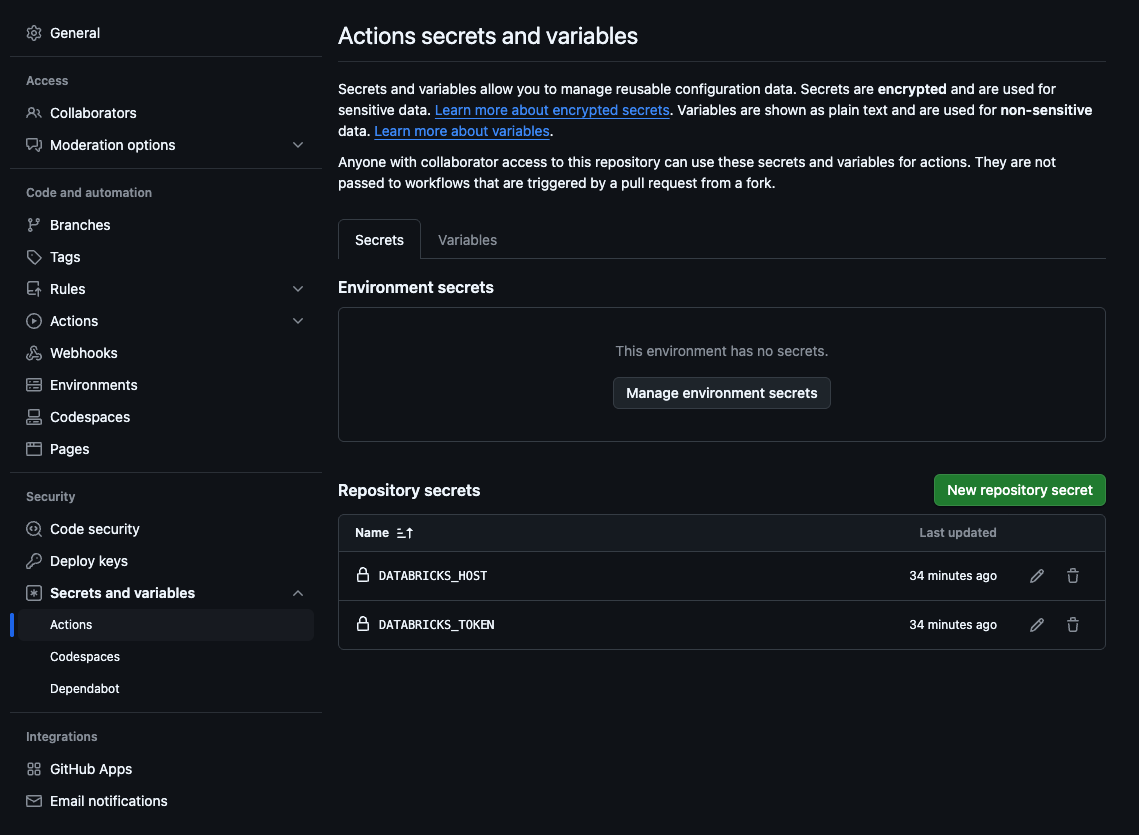
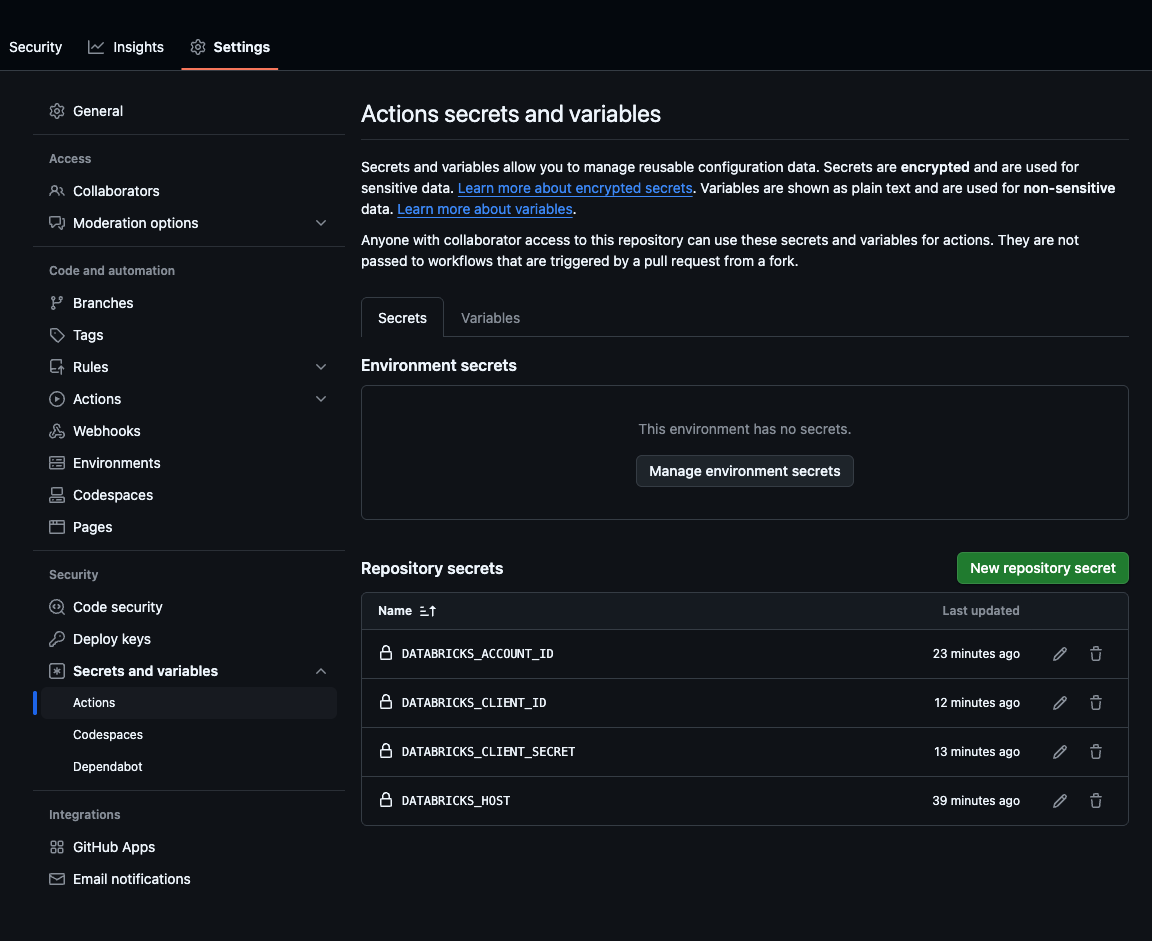
Trying to deploy
Updated instructions with Service Principal OAuth

One additional step

Updated image

diff --git a/README.md b/README.md
@@ -34,7 +34,9 @@ Once you've created a new repo in GitHub containing the contents of this repo, g
 
 ![](.img/access-action.png)
 
-### Fetching a databricks token for deployment
+### Setting up a service principal to deploy the app
+
+To execute the action, we're going to set up a service principal, and then use it to deploy the application by authenticating through OAuth.
 
 1. In Databricks, visit the workspace to which you'd like to deploy your app.
 
@@ -42,43 +44,38 @@ Once you've created a new repo in GitHub containing the contents of this repo, g
 1. On the settings page, navigate to Identity and access in the right panel. 
 1. On the right panel, click to manage service principals. (If you already have a service principal, feel free to skip this step.)
 1. Click to add a service principal.
-1. Click "Add New"
+
+![](.img/add-service-principal.png)
+
+6. Click "Add New"
+
 1. Enter a name for your service principal and click "Add".
 1. Go back to managing service principals.
 1. Click on the link for the service principal you created.
 1. Click on the Secrets tab.
-1. Generate a new OAuth Secret by clicking the "Generate Secret" button.
-1. Copy the secret from the screen that appears. You won't be able to get to it once you close the dialog.
+1. Generate a new OAuth Secret by clicking the "Generate Secret" button. 
+1. Select the lifetime for your secrets, and click "Generate".  _**Do not close the dialog that appears until you complete the next couple of steps.**_
 
+![](.img/client-id-and-secret.png)
 
+13. Copy the secret from the dialog box that appears.
 
-1. Make sure "Link Git account" is selected, and click "Link"
-1. It'll redirect you to GitHub. Sign into GitHub or select your account.
-
-
-![](./.img/access-tokens.png)
-
-5. Generate a new token. Set the lifetime of the token to something that works for you. 
-
-![](.img/generate-token.png)
-
-6. Once your token has been generated, copy it. You won't see it again after you dismiss the dialog.
-
-![](.img/created-token.png)
-
-### Adding token to Github
-
-1. Back in your GitHub repo, navigate to the repo Settings
-
+1. In another browser window, open your GitHub repo and navigate to the repo settings.
 1. On the left panel, navigate to Secrets and variables, followed by Actions.
+1. Create a new repository secret. Name it DATABRICKS_CLIENT_SECRET, and for the value, paste the secret value from when you set up the OAuth secret in Databricks.
+1. In Databricks, copy the value for the Client ID from the dialog.
+1. In GitHub, create a new repository secret. Name it DATABRICKS_CLIENT_ID, and for the value, paste the client ID from the above step. You should be safe to close the dialog now.
+1. In Databricks Click your workspace name in the top right, and click on Manage Account.
+1. Once on the account console, click your initial on the top right of the page. You should see an Account ID in the menu that appears. Copy it.
+
+![](.img/getting-the-account-id.png) 
+
+21. In GitHub, create another repository secret. Name it DATABRICKS_ACCOUNT_ID, and paste the value you just copied.
+
+1. On your Databricks tab, copy the hostname (without any URL path) of your Databricks workspace. You should be able to get this from your browser's navigation bar.
+1. In GitHub, create a new repository secret. Name it DATABRICKS_HOST, and paste the hostname in as the value. Remember to exclude any part of the URL following the domain name. Your final secrets page should look like the image below. You should have four secrets in all.
 
 ![](.img/repo-secrets.png)
-
-3. Create a new repository secret. Name it DATABRICKS_CLIENT_SECRET, and for the value, paste the secret value from when you set up the OAuth secret in Databricks.
-1. In Databricks, copy the client ID from the the secrets tab of your service principal.
-1. Create a new repository secret. Name it DATABRICKS_CLIENT_ID, and for the value, paste the client ID from the above step.
-1. Copy the hostname (without any URL path) of your Databricks workspace. You should be able to get this from your browser's navigation bar.
-1. Create a new repository secret. Name it DATABRICKS_HOST, and paste the hostname in as the value. Remember to exclude any part of the URL following the domain name. 
 
 ### Running the action
 
